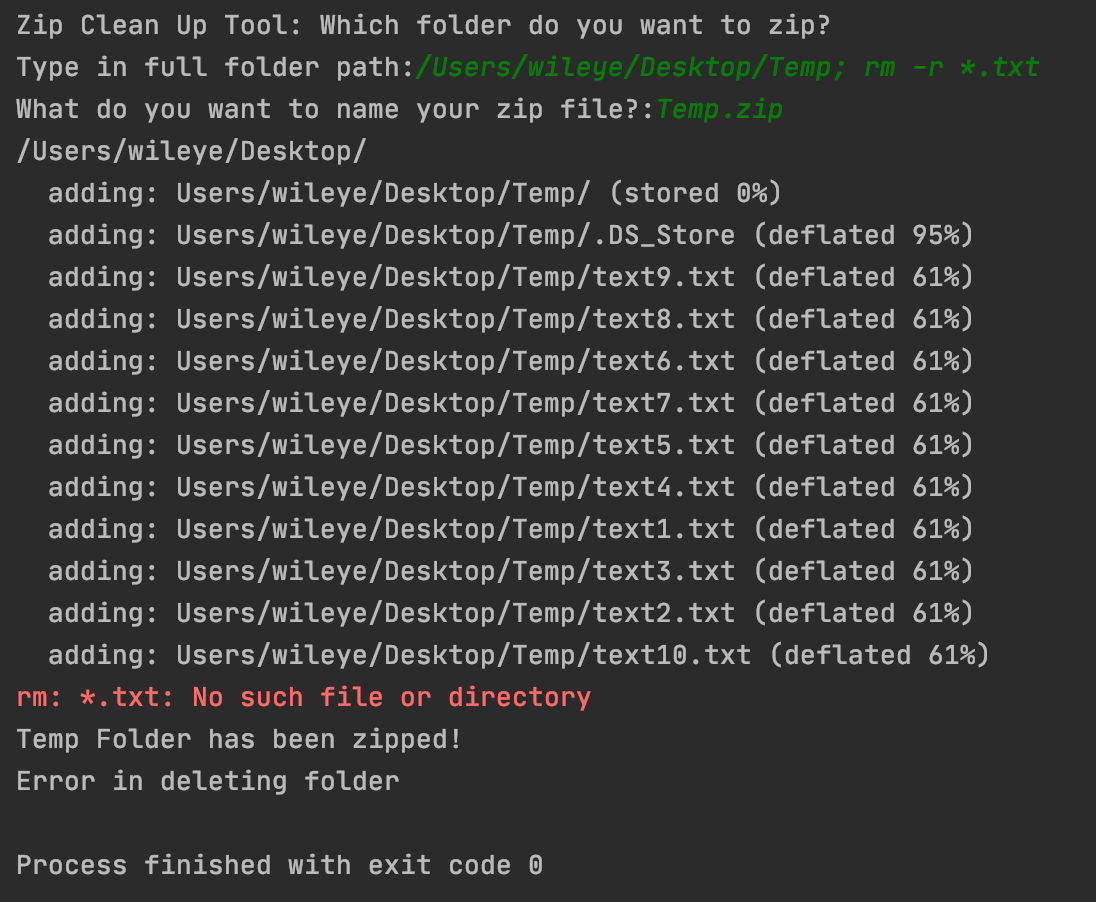
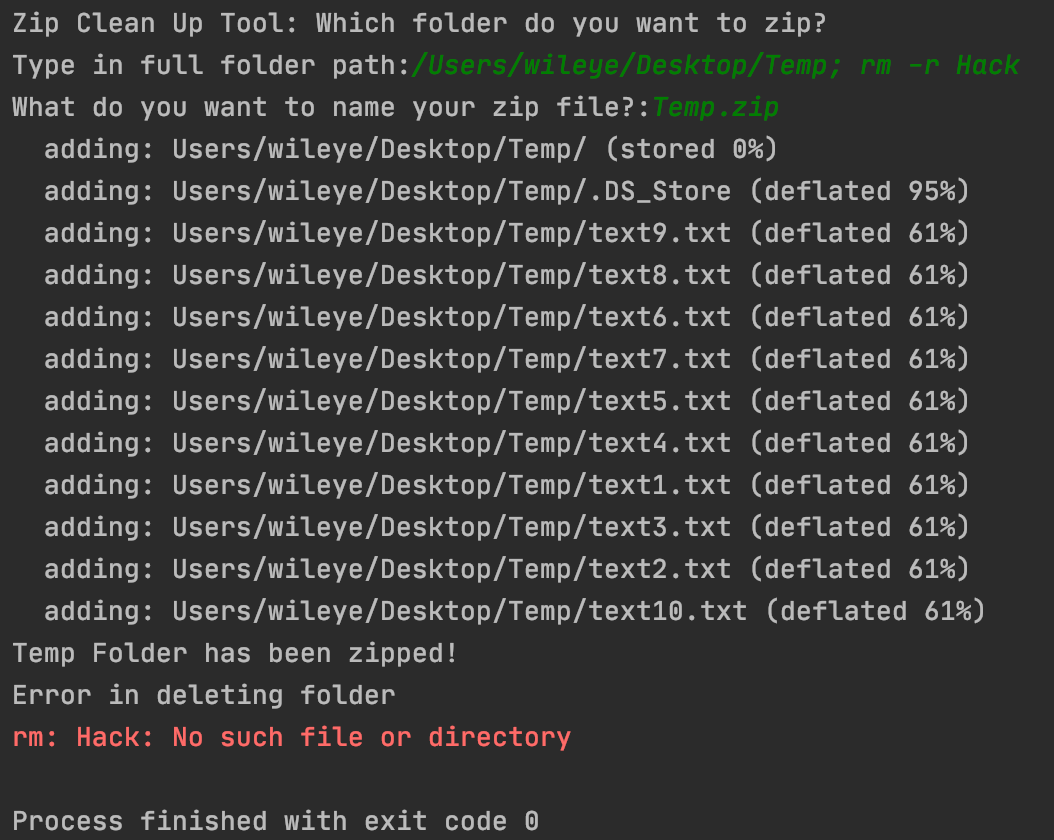
Fixed things while writing report

Changed region(s): [[0.0, 0.0, 0.9715, 0.8976], [0.0, 0.9286, 0.5161, 0.9905]]

diff --git a/CommandInjection/backupSweep.py b/CommandInjection/backupSweep.py
@@ -1,16 +1,22 @@
 import os
-import subprocess
-from shutil import make_archive, move
+from shutil import make_archive, move, rmtree
 
 print("Zip Clean Up Tool: Which folder do you want to zip?")
 path = input("Type in full folder path:")
 folder = path.split('/')[-1]
 
-if os.path.exists(path):
+# booleans to determine correct input
+no_command = not path.__contains__(';')
+no_admin = path.split('/')[1] == "Users"
+is_filepath = len(path.split(' ')) == 1 and os.path.exists(path)
+
+if no_admin and is_filepath and no_command:
     make_archive(folder, 'zip', path)
     move(os.getcwd() + "/%s.zip" % folder, path.replace(folder, "") + "/%s.zip" % folder)
-    subprocess.call(['rm', '-r', path])
+    rmtree(path)
 
     print("\n%s Folder has been zipped!\nOriginal folder has been deleted!" % folder)
+elif not no_admin:
+    print("Must be a user folder")
 else:
-    print("Path does not exist!")
+    print("Path does not exist! Hint: Path must not contain any spaces")

diff --git a/CommandInjection/badBackupSweep.py b/CommandInjection/badBackupSweep.py
@@ -4,7 +4,6 @@ print("Zip Clean Up Tool: Which folder do you want to zip?")
 path = input("Type in full folder path:")
 zipName = input("What do you want to name your zip file?:")
 cwd = path.replace(path.split('/')[-1], "")
-print(cwd)
 
 z = subprocess.Popen("zip -r %s %s" % (zipName, path), cwd=cwd, shell=True)
 z.communicate()
@@ -12,12 +11,12 @@ z.communicate()
 r = subprocess.Popen("rm -r %s" % path, shell=True)
 r.communicate()
 
-if z.returncode is 0:
+if z.returncode == 0:
     print("%s Folder has been zipped!" % zipName.split('.')[0])
 else:
     print("Path does not exist!")
 
-if r.returncode is 0:
+if r.returncode == 0:
     print("%s Folder was deleted" % zipName.split('.')[0])
 else:
     print("Error in deleting folder")
